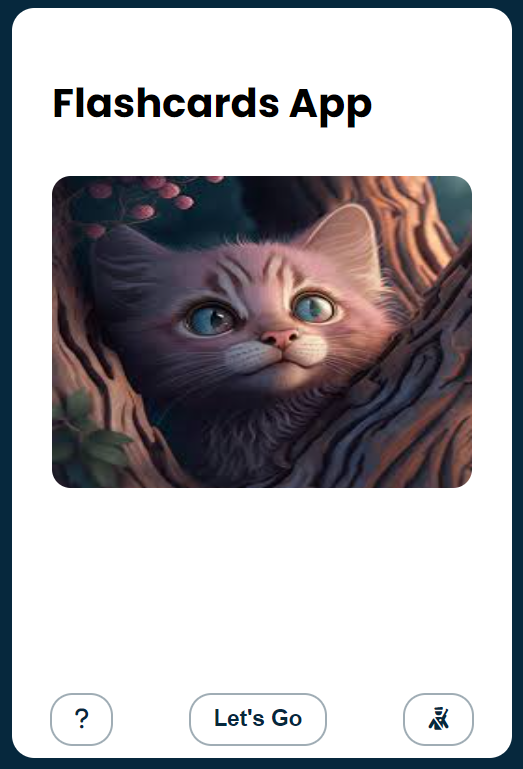
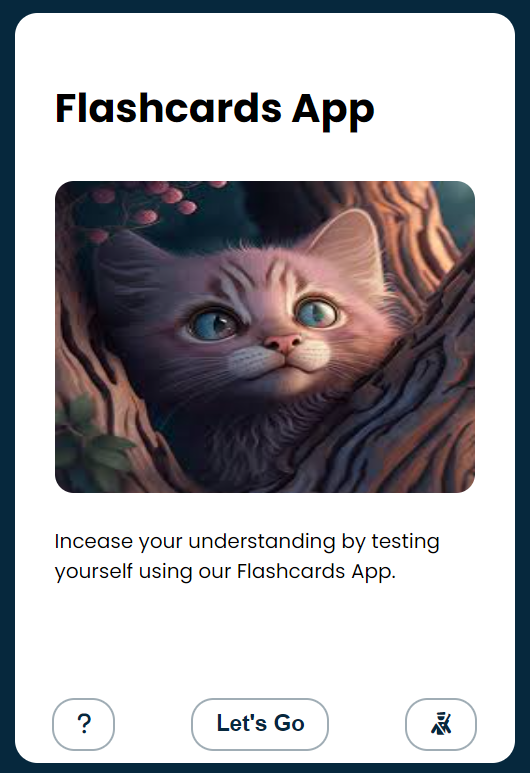
updated home screenshot

diff --git a/index.html b/index.html
@@ -17,6 +17,7 @@
             <br>
             <img src="assets/img/welcome.jpg" alt="">
             <br>
+            <p>Incease your understanding by testing yourself using our Flashcards App.</p>
             <div class="nav-bar">
                 <button style="background: none;" class="btn left fa-solid fa-question" id="about" title="about"></button> <!-- pick up another question -->
                 <button class="btn middle" id="random"><strong>Let's Go</strong></button>
@@ -27,14 +28,13 @@
             <h2>Here is a Question..??</h2>
             <img src="https://miro.medium.com/v2/resize:fit:849/1*wPu57gUBD4AUCzoTROknSA.png">
             <div class="nav-bar">
-                <button class="btn left fa-solid fa-dice-d6" id="random"></button> <!-- pick up another question -->
+                <button class="btn left fa-solid fa-dice-d6" id="random"></button>
                 <button class="btn middle fa-solid fa-home" id="home"></button>
                 <button class="btn right fa-solid fa-eye" id="answer"></button>
             </div>
         </div>
         <div class="answer hidden">
             <h2>Oops!! No Answer</h2>
-            <!-- <img src="https://miro.medium.com/v2/resize:fit:849/1*wPu57gUBD4AUCzoTROknSA.png" alt=""> -->
             <img src="assets/img/404.png" alt="">
             <p>
                 Here would be answer for the question, when you add any ;)
@@ -47,11 +47,11 @@
             </div>
         </div>
         <div class="question hidden">
-            <h2>What is Accounting?</h2>
-            <img src="https://miro.medium.com/v2/resize:fit:849/1*wPu57gUBD4AUCzoTROknSA.png" alt="">
+            <h2>Here is a Question..??</h2>
+            <img src="https://miro.medium.com/v2/resize:fit:849/1*wPu57gUBD4AUCzoTROknSA.png">
             
             <div class="nav-bar">
-                <button class="btn left fa-solid fa-dice-d6" id="random"></button> <!-- pick up another question -->
+                <button class="btn left fa-solid fa-dice-d6" id="random"></button>
                 <button class="btn middle fa-solid fa-home" id="home"></button>
                 <button class="btn right fa-solid fa-eye" id="answer"></button>
             </div>
